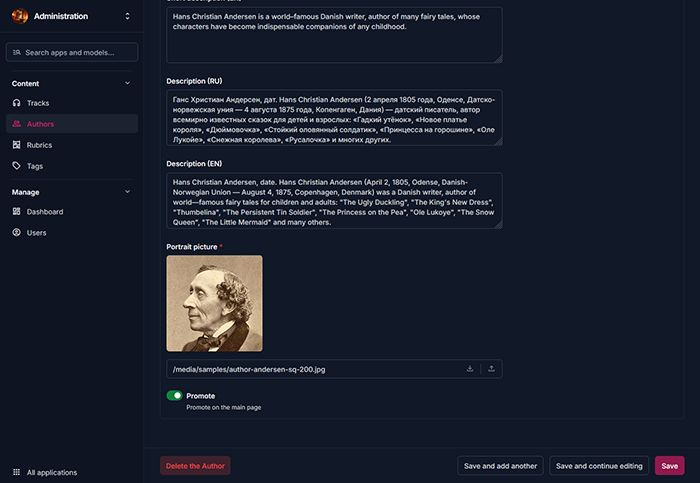
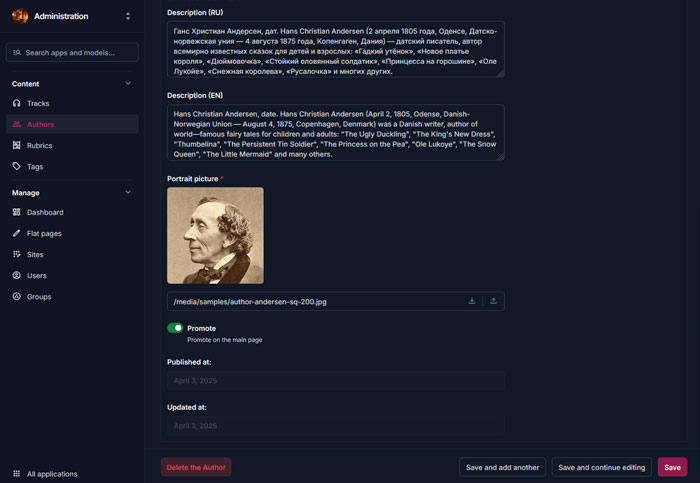
Updated march tales article.

diff --git a/src/projects/2025/march-tales/march-tales.md b/src/projects/2025/march-tales/march-tales.md
@@ -30,7 +30,7 @@ tags:
 ---
 
 <!--
-@changed 2025.04.07, 01:53
+@changed 2025.04.07, 03:22
 
 We've finally launched the first public release of our recent project: a mobile application and a web-site for The March Cat Tales.
 
@@ -120,13 +120,16 @@ The API server, also built with **Django** and it's **djangorestframework** and 
 - **RESTful Endpoints**: Efficient data exchange between clients and server.
 - **Audio Processing**: Leverages **FFmpeg** and **FFprobe** for track metadata extraction and quality assurance.
 
+See also: Notes about [Django FlatPages integration](/articles/2025/django-flatpages-based-cms/) on the project.
+
 ### Administrative Panel Screenshots
 
 {{ macros.carouselBegin('shots-slider full-width', type='browserScreenshotsWide') }}
-{{ macros.carouselItem('./images/admin-2/author-details.jpg', 'Author details.') }}
-{{ macros.carouselItem('./images/admin-2/authors-list.jpg', 'Authors list.') }}
-{{ macros.carouselItem('./images/admin-2/track-edit-page.jpg', 'Track edit page.') }}
-{{ macros.carouselItem('./images/admin-2/tracks-list.jpg', 'Tracks list.') }}
+{{ macros.carouselItem('images/admin-2/content-editor.jpg', 'Flat pages content editor.') }}
+{{ macros.carouselItem('images/admin-2/author-details.jpg', 'Author details.') }}
+{{ macros.carouselItem('images/admin-2/authors-list.jpg', 'Authors list.') }}
+{{ macros.carouselItem('images/admin-2/track-edit-page.jpg', 'Track edit page.') }}
+{{ macros.carouselItem('images/admin-2/tracks-list.jpg', 'Tracks list.') }}
 {{ macros.carouselEnd() }}
 
 ## Audio Playback
